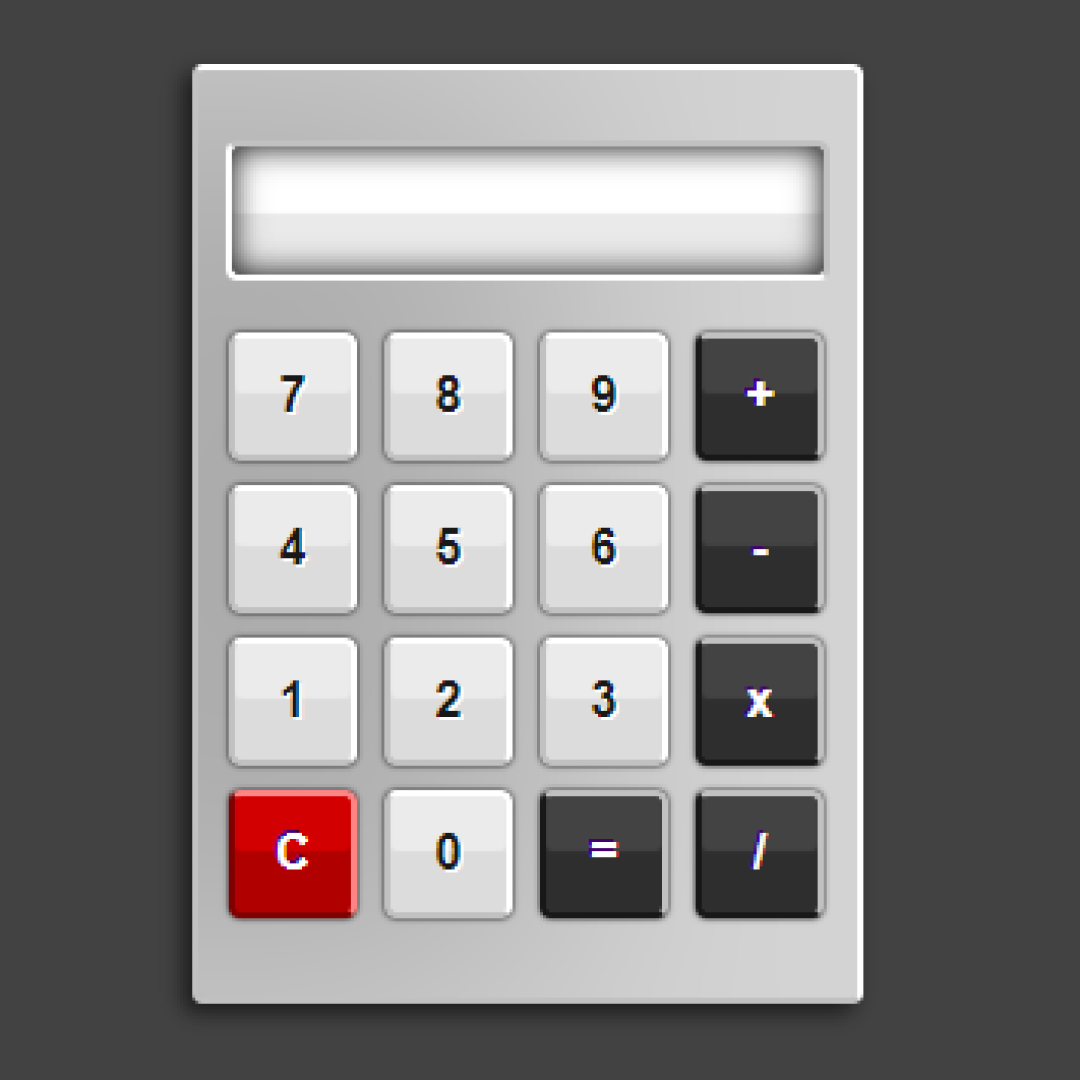
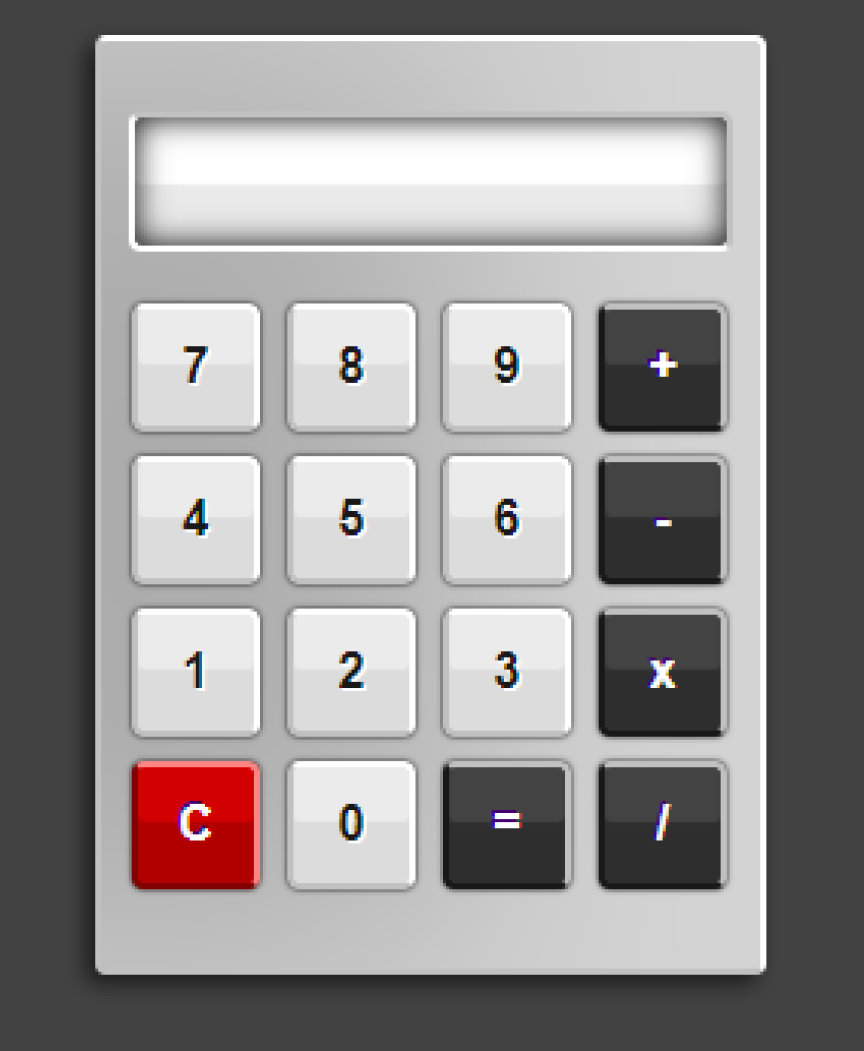
readme

diff --git a/02-neoCalc_v2/readme.md b/02-neoCalc_v2/readme.md
@@ -33,7 +33,8 @@ Durante o desenvolvimento, revisitei fundamentos importantes, fortaleci minha co
 
 Essa nova leva de projetos representa mais do que revisão: é um processo ativo de evolução. A intenção é consolidar minha base enquanto me preparo para desafios maiores, expandindo gradualmente meu repertório e minhas capacidades técnicas.
 
-Referência de design:
+### Referência de design:
+[https://www.codewithfaraz.com/content/5/creating-a-simple-calculator-using-html-and-pure-css] (View site)
   <img src="source/readme/calculatorBase.png" width="45%">
-Resultado final:
+### Resultado final:
   <img src="source/readme/calculatorGame.jpeg" width="45%">
